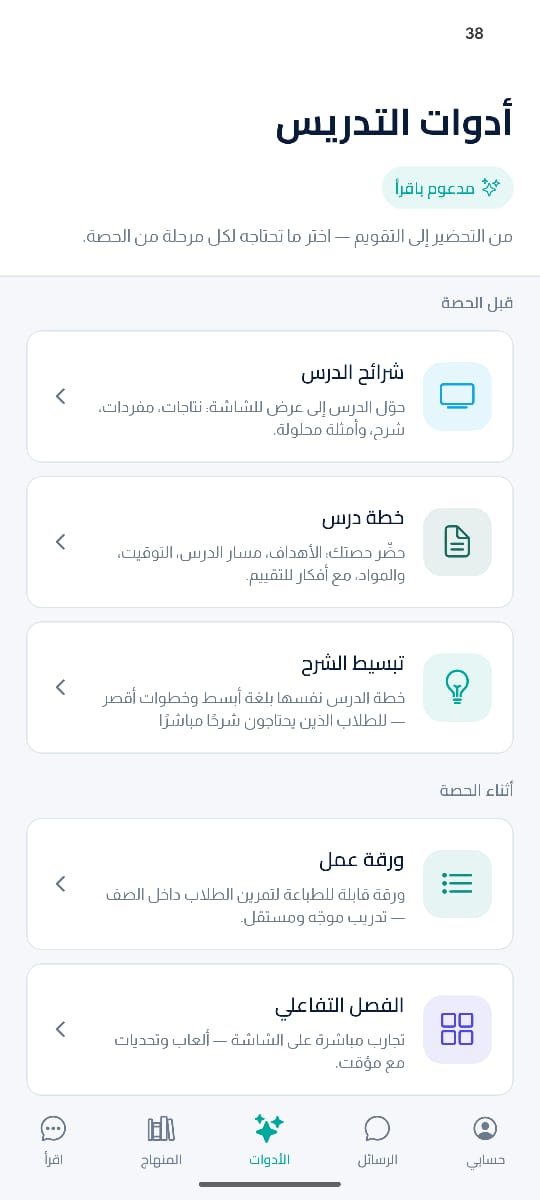
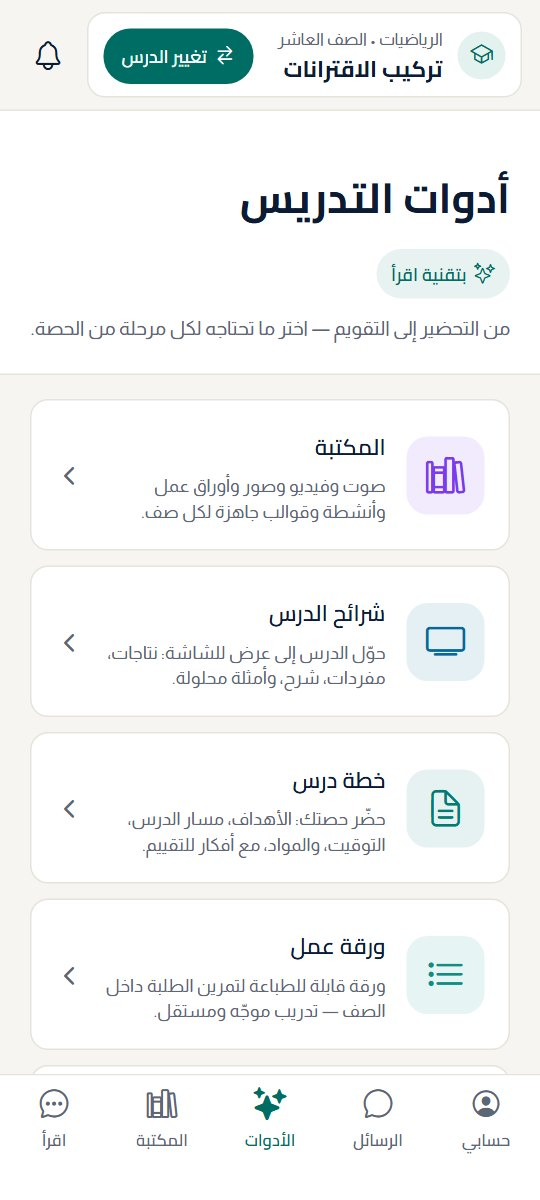
Replace the tools screenshot; it showed a removed tool
img/tools.jpg was captured on 6 Sept and still showed the تبسيط الشرح
tile, which the app no longer has. Fresh capture of the current tools
screen from main (e5b6f154), rendered locally and captured headless at
360x800 CSS px at 1.5x — 540x1200, the image's native size. Alt text on
the home page and /download follows it, and og.jpg is regenerated since
it is cut from this image; tools-make-og.py's HEADLINE now equals the
<h1>, as its docstring requires.

diff --git a/download.html b/download.html
@@ -195,7 +195,7 @@
       </figure>
       <figure>
         <img src="img/tools.jpg" width="540" height="1200" loading="lazy"
-             alt="أدوات التدريس: شرائح الدرس، خطة درس، تبسيط الشرح، ورقة عمل، والفصل التفاعلي.">
+             alt="شاشة أدوات التدريس في التطبيق، والدرس المثبّت في أعلاها: المكتبة، شرائح الدرس، خطة درس، ورقة عمل.">
         <figcaption><strong>اطلب ما تحتاجه</strong>خطة درس، أو ورقة عمل، أو شرائح عرض، أو نشاط صفي تفاعلي.</figcaption>
       </figure>
       <figure>

diff --git a/index.html b/index.html
@@ -512,7 +512,7 @@
       </figure>
       <figure class="lead">
         <img src="img/tools.jpg" width="540" height="1200"
-             alt="أدوات التدريس: شرائح الدرس، خطة درس، تبسيط الشرح، ورقة عمل، والفصل التفاعلي.">
+             alt="شاشة أدوات التدريس في التطبيق، والدرس المثبّت في أعلاها: المكتبة، شرائح الدرس، خطة درس، ورقة عمل.">
         <figcaption><b>أدوات التدريس</b>خطة درس، ورقة عمل، اختبار قصير، شرائح عرض</figcaption>
       </figure>
       <figure>

diff --git a/tools-make-og.py b/tools-make-og.py
@@ -21,7 +21,7 @@ OUT = "img/og.jpg"
 SHOT = "img/tools.jpg"
 FONT = r"C:\Windows\Fonts\segoeuib.ttf"
 
-HEADLINE = ["من تحضير الدرس إلى إعداد الاختبار،", "اقرأ معك في كل خطوة"]
+HEADLINE = ["حضّر حصّتك في دقائق،", "لا في ساعات"]
 EYEBROW = "للمعلمين والمدارس في الأردن"
 SUB = "خطط دروس · أوراق عمل · اختبارات قصيرة · أنشطة صفية"
 BRAND = "اقرأ · مساعد المعلّم العربي"
